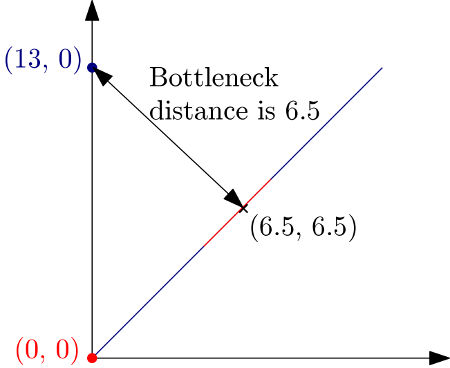
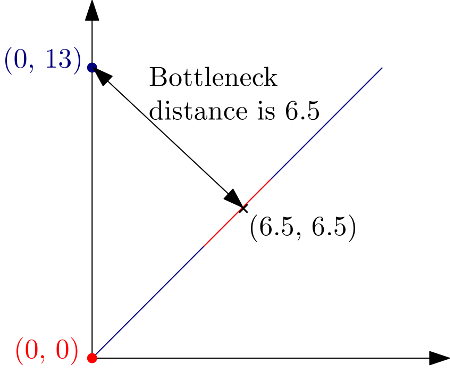
Fix doc review. Add citations for python doc version. Replace (13,0) with (0,13) in figure

diff --git a/src/Bottleneck_distance/doc/Intro_bottleneck_distance.h b/src/Bottleneck_distance/doc/Intro_bottleneck_distance.h
@@ -40,7 +40,8 @@ namespace persistence_diagram {
  * 
  * The bottleneck distance measures the similarity between two persistence diagrams. It is the shortest distance b for
  * which there exists a perfect matching between the points of the two diagrams (completed with all the points on the
- * diagonal in order to ignore cardinality mismatchs) such that any couple of matched points are at distance at most b.
+ * diagonal in order to ignore cardinality mismatchs) such that any couple of matched points are at distance at most b,
+ * where the distance between points is the sup norm in \f$\mathbb{R}^2\f$ (not the Euclidean distance).
  *
  * \image html perturb_pd.png On this picture, the red edges represent the matching. The bottleneck distance is the length of the longest edge.
  *
@@ -50,7 +51,7 @@ namespace persistence_diagram {
  * 
  * \section bottleneckdistanceprecision Distance computation
  *
- * Bottleneck distance does not use Euclidean distance, like explained in the following example:
+ * The following example explains how the distance is computed:
  *
  * \code{.cpp}
 #include <gudhi/Bottleneck.h>

diff --git a/src/cython/doc/bottleneck_distance_user.rst b/src/cython/doc/bottleneck_distance_user.rst
@@ -9,6 +9,10 @@ Definition
 
 .. include:: bottleneck_distance_sum.inc
 
+This implementation is based on ideas from "Geometry Helps in Bottleneck Matching and Related Problems"
+:cite:`DBLP:journals/algorithmica/EfratIK01`. Another relevant publication, although it was not used is
+"Geometry Helps to Compare Persistence Diagrams" :cite:`Kerber:2017:GHC:3047249.3064175`.
+
 Function
 --------
 .. autofunction:: gudhi.bottleneck_distance
@@ -16,7 +20,7 @@ Function
 Distance computation
 --------------------
 
-Bottleneck distance does not use Euclidean distance, like explained in the following example:
+The following example explains how the distance is computed:
 
 .. testcode::
 
@@ -33,14 +37,14 @@ Bottleneck distance does not use Euclidean distance, like explained in the follo
     ../../doc/Bottleneck_distance/bottleneck_distance_example.png
     :figclass: align-center
     
-    The point (0, 13) is at 6.5 distance from the diagonal and more
+    The point (0, 13) is at distance 6.5 from the diagonal and more
     specifically from the point (6.5, 6.5)
 
 
 Basic example
 -------------
 
-This another example computes the bottleneck distance from 2 persistence diagrams:
+This other example computes the bottleneck distance from 2 persistence diagrams:
 
 .. testcode::
 

diff --git a/src/common/doc/main_page.md b/src/common/doc/main_page.md
@@ -349,7 +349,9 @@
     Bottleneck distance measures the similarity between two persistence diagrams. 
     It's the shortest distance b for which there exists a perfect matching between 
     the points of the two diagrams (+ all the diagonal points) such that 
-    any couple of matched points are at distance at most b.
+    any couple of matched points are at distance at most b,
+    where the distance between points is the sup norm in \f$\mathbb{R}^2\f$
+    (not the Euclidean distance).
     </td>
     <td width="15%">
       <b>Author:</b> Fran&ccedil;ois Godi<br>
